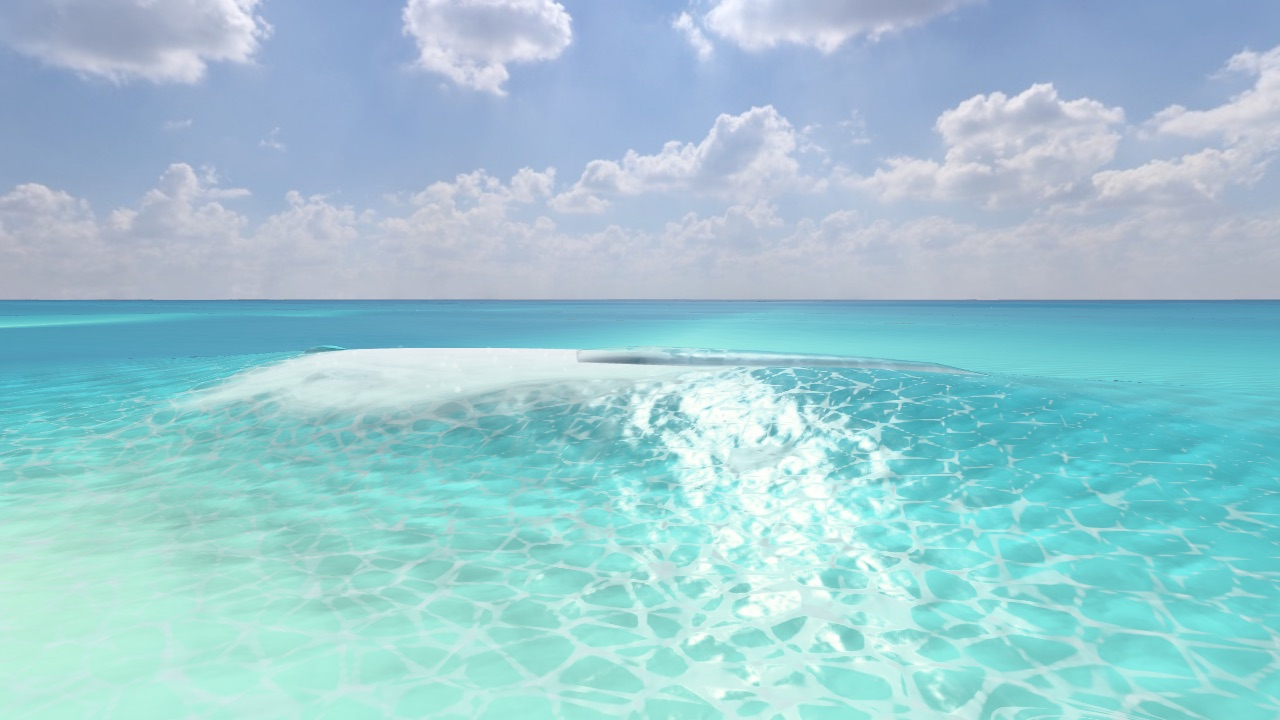
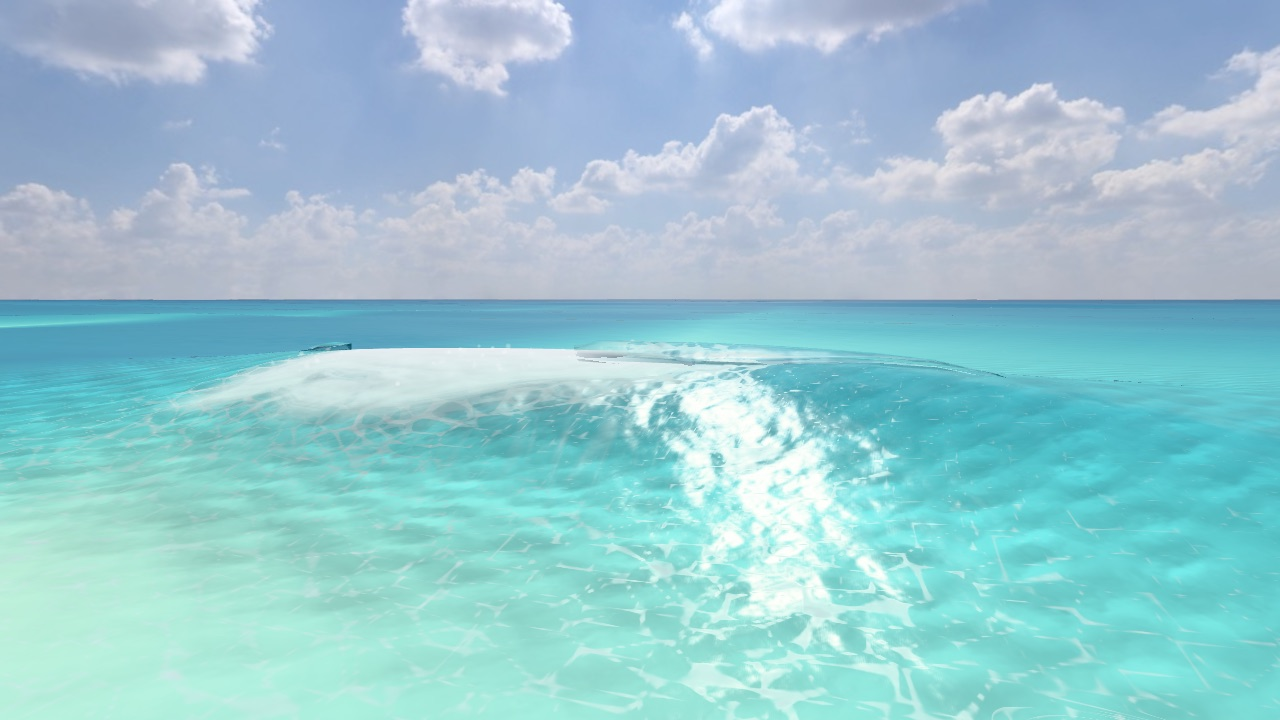
docs: the spilling lip's round 2: stills, motion strips, sources, open checks
New after stills (Medium beside, lineup, beach, Classic; Big beside and
lineup), 8-frame motion strips at Medium and Big from a fixed camera beside the
take-off, the round's numbers and sources (Surf's Up pp. 80-82, Vlachos 2010,
Mostert 2022, Watanabe 2005, Saruwatari 2008, Hansen & Svendsen 1984), costs,
and what is still off (glassy at rest; lace on the shoulder at Big). Consult-log
row for round 2.

diff --git a/docs/research/canyon-lip-2026-10-11/README.md b/docs/research/canyon-lip-2026-10-11/README.md
@@ -2,17 +2,17 @@
 
 The owner's playtest of 2026-10-11, at the Canyon: "I don't want the wave to become white then have the spilling; spilling should be like a tube animation but as a separator that the wave is breaking."
 
-What was built, on `claude/canyon-lip`:
+What was built, on `claude/canyon-lip` (three passes: the first build, the coordinator's look pass, and round 2 after the water-physics advisor's review):
 
-- **A small rolling lip.** At each wave's spilling front the top of the crest tips forward as a small curl and falls down the face. It runs along the crest at the S2 front's pace (the 55° peel), just behind the front's tip.
-- **A clean shoulder ahead of it.** No whitewater is drawn ahead of the front.
-- **White that trails the break.** No white is drawn on a column's face until its curl lands. The white then grows down the face from the landing line and reaches the face's foot 2 s later.
+- **A small rolling lip.** At each wave's spilling front the crest sharpens and its tip is thrown out and falls down the face. It runs along the crest at the S2 front's pace (the 55° peel), just behind the front's tip. Each column goes through the break's own sequence as the peel passes it.
+- **A clean shoulder ahead of it.** No whitewater is drawn ahead of the front. The drawn foam drifts shoreward and its lace lasts 6 s rather than 15 s, so the last waves' lace clears from the shoulder at Medium.
+- **White that trails the break.** No white is drawn on a column's face until its curl lands. A bright patch then shows where it lands, with a splash of drops. The white grows down the face and reaches the face's foot 2 s later.
 
-It is **look only**. The water, the solver's breaking strength, the S2 whitewater (which feeds the air and the roar), the breaking the rider feels, the roller table (`writeTable`: push, froth drag, water entry, lens top), and the aeration the rider floats in (`aerateBores` → `voidFraction`) are byte for byte the same with the lip on and off. A test checks this every step over 5 s of Canyon Medium. The curl collides with nothing. `heightAt` and the drawn heights are unchanged. Only the Canyon has the lip; every other spot draws exactly as before.
+It is **look only**. The water, the solver's breaking strength, the S2 whitewater (which feeds the air and the roar), the breaking the rider feels, the roller table (`writeTable`: push, froth drag, water entry, lens top), the aeration the rider floats in (`aerateBores` → `voidFraction`) and its turbulence, the bores the air reads, and the lip impacts (the sound and the reports) are byte for byte the same with the lip on and off. A test checks this every step over 5 s of Canyon Medium, the foam's drift and the curl's splash included. The curl collides with nothing. `heightAt` and the drawn heights are unchanged. Only the Canyon has the lip; every other spot draws exactly as before, in both looks.
 
 ## The stills
 
-Canyon, Medium swell (Hs 1.4 m, Tp 11 s, 0°, s = 150), seed 1, in the page, at sea time 133.47 s: a set wave about 2 m high peeling toward +x at the take-off. They were shot from the dev water sheet (`?inpage&waterSheet&spot=canyon&swell=medium&direction=0&spreading=150`, with `&spillingCurl=0` for the before), midday, in the Rich look unless noted. The before and after show the same wave at the same moment, from the same cameras: the switch changes nothing felt. The after stills are from the look pass after the coordinator's review (see below).
+Canyon, Medium swell (Hs 1.4 m, Tp 11 s, 0°, s = 150), seed 1, in the page, at sea time 133.47 s: a set wave about 2 m high peeling toward +x at the take-off. They were shot from the dev water sheet (`?inpage&waterSheet&spot=canyon&swell=medium&direction=0&spreading=150`, with `&spillingCurl=0` for the before), midday, in the Rich look unless noted. The before and after show the same wave at the same moment, from the same cameras, because the switch changes nothing felt. The after stills are round 2's.
 
 | | Before (`spillingCurl` off) | After |
 | --- | --- | --- |
@@ -21,77 +21,112 @@ Canyon, Medium swell (Hs 1.4 m, Tp 11 s, 0°, s = 150), seed 1, in the page, at 
 
 - **From the beach** (after): ![](after-beach.jpg)
 - **Beside the curl, Classic look** (after): ![](after-beside-classic.jpg)
-- **Big, beside the curl** (after; `&swell=big`, sea time 201.8 s, a 1.5 m wave): ![](after-big-beside.jpg)
+- **Big** (`&swell=big`, sea time 201.9 s; this wave is 1.5–1.6 m high, Big's sets reach 2.5 m), beside and from the lineup: ![](after-big-beside.jpg) ![](after-big-lineup.jpg)
 
-**My read of the stills.**
+**Motion strips.** 8 frames, 0.15 s apart, read left to right then down. Each is from a fixed camera beside the take-off column (x −30) as a curl passes:
 
-- **Before:** the face is white (S2's lace) right up to the front. There is no curl.
+- **Medium,** from about 10 m, sea time 132.87–133.92 s: ![](motion-medium.jpg)
+- **Big,** from 10 m, sea time 201.29–202.34 s: ![](motion-big.jpg)
+
+**My read.**
+
+- **Before:** the face is white (S2's foam) right up to the front. There is no curl.
 - **After, Medium:**
-  - **The ordering reads.** From the lineup and beside the curl you see, along the crest: a clean green shoulder, then a small water-coloured lip growing from nothing at the front, then a bright white patch at the crest behind it where it has landed. The white spreads down the face from there.
-  - **The lip.** It now takes the face's turquoise and is translucent where it falls thin. Its tip carries a little froth and the bright edge. It fades into the crest, and into the white as it collapses. There is no dark rim and no glass end cap.
-  - **What is still off:**
-    - The lip is smooth and clean-edged: from beside it still reads as a glassy tongue lying on the crest more than as water pouring off it.
-    - In Classic it is a darker teal, with its inner side showing through the thin part.
-    - From the beach it is subtle: a thin translucent lip on the crest beside the white patch.
+  - The ordering reads: a clean shoulder, then a small lip just behind the front, then a bright white patch at the crest where it has landed, with drops thrown up. The white spreads down the face. The lace that covered the face and shoulder in the earlier stills is gone.
+  - Beside it, the lip now reads as a translucent sheet arching off the crest and down the face. It is longer where it is older and short at the front, with lighter streaks across it and a darker band under it.
+  - The strip shows the sequence: the white patch spreading along the crest frame by frame, with the lip reaching out and down ahead of it.
+- **What is still off:**
+  - **Glassy.** The lip is still smooth and a little glassy, more a clear awning over the crest than water pouring. The streaks' downward motion can only be judged in motion, not in stills.
+  - **The tip.** The ragged tip is too small on screen to see at these distances.
+  - **From the beach.** The curl is subtle: a thin lip on the crest beside the white.
+  - **Classic.** It reads darker teal, with its inner side showing through.
 - **After, Big:**
-  - The curl is barely visible beside the white patch.
-  - The leftover lace from earlier waves' bores covers the water ahead, so the shoulder is not clean there. That lace predates this work and is not touched: the Canyon's residual foam lasts 15 s, and Big breaks over a wide area.
-  - The dark dashes in the Big still are in the water without the curl too, so they are not the curl's.
+  - The curl is small beside the white patch.
+  - A lace network still covers the face and shoulder ahead of the front. The drawn foam there is 0.05–0.15 (measured): lace from the inshore bores, carried seaward by the depth-averaged return flow. The shoreward drift and the 6 s lace did not clear it at Big; they did at Medium.
+  - The dark dashes in the Big stills are in the water without the curl too, so they are not the curl's.
 
 ## The numbers and their sources
 
 | What | Value | Source |
 | --- | --- | --- |
-| Touchdown after the front reaches a column | τ_i = 0.6 √H s (0.84–0.86 s for the 2 m wave in the stills) | The barrel clock (along-the-crest.md); advisor 0.35–0.7 s at Medium (inferred) |
+| Touchdown after the front reaches a column | τ_i = 0.6 √H s (0.84–0.86 s for the 2 m wave in the stills; 0.95 s at 2.5 m) | The barrel clock (along-the-crest.md); advisor 0.35–0.7 s at Medium (inferred) |
+| The tip's flight | Out at a steady pace to the landing at τ_i (0.2–0.3 C), falling as t² from a peak at most 0.1 H over the crest, sharpened over the first third | The advisor, round 2 (the jet leaves nearly level and falls ballistically; Mostert, Popinet & Deike 2022: laminar until touchdown) |
 | The void fills, the curl whitening from its tip | 0.5 s | along-the-crest.md (collapse from T to T + 0.5 s) |
 | The white's toe reaches the face's foot | 2 s after touchdown | The owner (2026-10-11); advisor's sourced 2–3.5 s (Svendsen 1984, 5–8 h_b) |
 | Overturn shape | Pick & Feddersen (2026) fits (`Overturn.ts`), ψ0 from each column's Mead & Black gradient at h_b | The advisor; provisional |
-| ψ0 range | Held to 1:50–1:30 at H0/h0 0.28: void 0.10–0.20 H², W/L 0.35–0.37, 47–50°, curl 0.23–0.33 H high, landing 0.42–0.60 H ahead | The advisor's span for the fan face. Downcoast the fan grows gentler (1:60–1:95), and the arm's end and the beach face are steeper (1:25), so the curl would leave the owner's "about ¼ H" there |
-| Lip thickness | A_J·H² / (L + W): about 0.06 H at 1:30 | "The jet's thickness comes from its area" (advisor: about 0.05 H) |
-| Along the crest (the stills' wave) | 0.17 s per metre (a 5.7 m/s front), curl standing over about 7 columns, landing line 1.2 m below the crest, the face's foot (the lens's toe) 7 m | Measured. Advisor: 0.175 s/m; 2–4 m of open curl, then about 3 m collapsing |
+| ψ0 range | Held to 1:50–1:30 at H0/h0 0.28: void 0.10–0.20 H², W/L 0.35–0.37, 47–50°, curl 0.23–0.33 H high (0.58–0.83 m at H 2.5 m) | The advisor's span for the fan face. Downcoast the fan grows gentler (1:60–1:95), and the arm's end and the beach face are steeper (1:25) |
+| Landing | 0.60 H ahead: Pick & Feddersen's far end (1.5 m at H 2.5 m) | The coordinator's ruling, round 2 (the contrast route) |
+| Lip thickness | A_J·H² / (L + W), no less than 0.052 H: 0.13–0.15 m at H 2.5 m | Advisor: about 0.05 H; 0.13–0.15 m at Big |
+| The splash | At touchdown, per column: 0.3 of the jet (`SPLASH_UP.share`), on at the breaker celerity, down at 3.2 m/s | The advisor, round 2 (about 1.0 C forward, 2.5–4 m/s down) |
+| Surface drift of the drawn foam | Q_s = 0.18 H_b² m²/s over the still depth, at most 0.4 m/s, where the still depth is under 1.3 h_b (Q_s 1.3 m²/s at Big) | Hansen & Svendsen 1984; the advisor's Q_s ≈ 1.2–1.5 m²/s at Big and 0.3–0.4 m/s |
+| Drawn lace | 6 s (the Canyon's was 15 s) | The coordinator's ruling, round 2 |
+| Streaks | Two flow-map layers half a 0.45 s period apart; scrolled along the lip at 0.4 m/s near the crest to 3.2 m/s at the tip; 0.3 m apart in world x, 1.2 m long | Surf's Up course notes p. 80; Vlachos 2010; the advisor (2–4 lip thicknesses apart, 4:1) |
+| Ragged tip | Fingers cut from the tip's last fifth, 0.45 m period in world x; the tip's froth varied with the same noise | Surf's Up's lip trains; the advisor (0.3–0.6 m) |
+| Along the crest (the stills' wave) | 0.17 s per metre (a 5.7 m/s front), curl standing over about 7 columns, the face's foot (the lens's toe) 7 m | Measured. Advisor: 0.175 s/m; 2–4 m of open curl, then about 3 m collapsing |
 
-**How it is drawn** (the advisor's recommended build):
+**How it is drawn:**
 
 - **The curl** (`src/wave/SpillingCurl.ts`, `src/scene/SpillingCurlMesh.ts`):
-  - A ribbon is lofted along each wave's crest from the snapshot's slices: up to 56 slices of 13 floats, 2.9 KB, carried through the snapshot so solo, worker and online clients all draw it.
-  - Each slice is the curl at its column's age. It grows from nothing at the front to touchdown, then fills and whitens.
-  - The lip's outer surface rises from the back of the crest, carries forward over the void, and falls onto the drawn face where Pick & Feddersen's lip lands. The face stands in for the void's lower branch.
-  - It stands no more than 0.1 H over the drawn crest. The solver's crest is rounder and its face gentler than a breaking crest's, so a higher lip read as a pod sitting on the crest.
-  - It is shaded on the water's own uniforms, with the column of water under it as its body, so it takes the face's colour.
-  - Its falling outer half is shaded as the swept barrel's thin backlit sheet: translucent, letting 30 % of the water behind show through, brightest toward its tip.
-  - It carries a little froth on its very tip.
-  - Its view cosine is held off grazing, which removes the dark rim.
-  - Its Rich roughness is 0.25 rather than the water's 0.08, which removes the plastic sheen.
-  - It is blended (alpha). It fades into the crest where it attaches (from 0.4 L behind the crest to 0.1 L ahead of it). Over its 0.5 s collapse (about 3 m of crest) it thins, whitens and fades out into its landing patch, so no end cap shows.
+  - **The slices.** A ribbon is lofted along each wave's crest from the snapshot's slices: up to 56 slices of 13 floats, 2.9 KB, carried through the snapshot so solo, worker and online clients all draw it. Each slice carries its column's curl at full size and its age. The ribbon builds the column's stage of the break from that age, so the curl doesn't inflate as one shape.
+  - **The sequence per column:**
+    - the crest sharpens to a peak at most 0.1 H over the drawn crest;
+    - the tip goes out first, nearly level, and falls as t² onto the drawn face at the landing, 0.6 H ahead, at touchdown;
+    - the void under it opens in the last third of the flight;
+    - after touchdown the lip settles onto the face over 0.5 s, whitens from its tip, bulks into a white mass and fades out into its landing patch.
+  - **The contrast route.** The drawn face is gentler than an overturning one, so the void a real curl has, 0.15–0.2 H more, is drawn as contrast, not geometry. The lip's underside and a veil on the face under it are darkened for the sky the lip hides. That darkening is 45 % on the underside and 60 % on the face under it, at 75 % opacity, as the void opens.
+  - **Shading.** It is shaded on the water's own uniforms, with the face's column of water as its body, so it takes the face's colour. Its falling outer half is the swept barrel's thin backlit sheet: translucent, letting 30 % of the water behind show through, brightest toward its tip.
+  - **Streaks and tip.** Its falling half carries the streaks, and its tip the ragged fingers and froth, both fixed in world x. As the peel passes, they stay put while each column runs through its sequence.
+  - **Rim and sheen.** Its view cosine is held off grazing, which removes the dark rim. Its Rich roughness is 0.25, which removes the plastic sheen.
+  - **Fades.** It is blended: it fades into the crest where it attaches and out as it collapses, with no end cap. Classic draws it too, with Classic shading.
 - **The drawn white:**
-  - S2 now writes a drawn whitewater beside the felt one. It is zero before touchdown, then runs from the landing line (the void filling up to the crest) down to a toe that reaches the foot 2 s later. The foam field takes its foam and source from this drawn whitewater; its bore measurement for the air is unchanged.
-  - The roller band's drawn copy (`writeRoller`) waits and grows the same way. Once its curl has landed it is drawn at full scale within 0.15 s: a bright white patch where the lip lands (fresh foam averages about 41 % reflectance over its first second; the advisor), brightest at the crest and fading toward the toe. The felt lens's scale grows with its travel over about 2.5 s, which drew the landing faint.
-  - The drawn air (Rich's churn and plume) shows only under drawn foam, and only in columns whose curl is still young. A developed bore draws its air as before.
-  - S2's drawn whitewater also holds back the next crest's weak breaking before its onset joins it, which an older wave's band holds meanwhile. Before this change that breaking was drawn white ahead of the front.
+  - **S2's drawn whitewater.** S2 writes a drawn whitewater beside the felt one. It is zero before touchdown, then runs from the landing line (the void filling up to the crest) down to a toe that reaches the foot 2 s later. It also holds back the next crest's weak breaking before its onset joins it. The foam field takes its foam and source from this drawn whitewater; its bore measurement for the air is unchanged.
+  - **The band.** The roller band's drawn copy (`writeRoller`) waits and grows the same way. Once its curl has landed, it is drawn at full scale within 0.15 s: a bright white patch where the lip lands (fresh foam averages about 41 % reflectance over its first second; the advisor), brightest at the crest and fading toward the toe.
+  - **The drawn air.** Rich's churn and plume show only under drawn foam, and only in columns whose curl is still young. A developed bore draws its air as before.
+- **The splash.** Each touchdown pushes a `LipImpact` (kind 1, a splash-up) into `drawnImpacts`, which only the drawn spray reads. It never enters `lipImpacts`, so the water, the foam's air, the sound and the reports never see it. Classic throws no drops from a splash-up, the rule Classic's spray has kept since G9, so the splash shows in Rich only.
+- **The foam's drift.** The foam field takes the drift on top of the current for its own departure points only. The advection stencil it records, which the aeration reuses, stays the current's: a test checks the stencils are identical with and without the drift.
+- **The crest tracker** (Wave Lab Follow, `crestTracker.ts`) reads the drawn foam from the snapshot. With the lip, the breaking edge it slides to is the white's edge, a few metres behind the curl, rather than S2's early foam. Its tests pass unchanged.
 
-**Cost:**
+**Cost** (node timings on this M1 Air):
 
-- The look's step: 0.015 ms per step.
-- The snapshot's slices: 0.026 ms (worker).
-- Building the ribbon on the page: 0.082 ms for 20 slices, 0.225 ms at the 56-slice maximum, the same as before the look pass (0.084 and 0.224 ms). These are node timings on this M1 Air. The ribbon is rebuilt once per snapshot, not per frame.
-- The GPU draws one mesh of at most 1,400 vertices with the water's sheet shading. GPU cost was not measured; I estimate it as negligible.
+- The look's step and splash: about 0.01 ms per step.
+- The snapshot's slices: about 0.03 ms (worker).
+- The foam's drift: +0.2 ms per step on the foam stage (2.26–2.30 → 2.47–2.48 ms in the page's CPU run).
+- Building the ribbon on the page: 0.063 ms for 20 slices and 0.164 ms at the 56-slice maximum, cheaper than the look pass (0.082 and 0.225 ms) because each slice samples the face fewer times. The ribbon is rebuilt once per snapshot, not per frame.
+- The GPU draws one mesh of at most 1,152 vertices with the water's sheet shading, plus two value-noise layers for the streaks and one for the tip. GPU cost was not measured; I estimate it as small.
+
+## Sources
+
+- Pick & Feddersen 2026 (J. Fluid Mech. 1040 A8): the overturn's fits (`Overturn.ts`).
+- Mostert, Popinet & Deike 2022: breaking jets are laminar until they touch down.
+- Watanabe, Saeki & Hosking 2005: fingers and drops form on the splash.
+- Saruwatari et al. 2008: the splash-up and its jets.
+- Surf's Up, SIGGRAPH 2007 course notes, pp. 80–82: the falling face's texture shifted for downward motion; lip trains.
+- Vlachos 2010, "Water Flow in Portal 2": two-layer flow maps.
+- Hansen & Svendsen 1984: the breakers' shoreward surface mass flux.
+- Deike, Melville & Popinet 2015: surf-scale spillers overturn.
+- Svendsen 1984: the roller's development over 5–8 h_b.
+- Mead & Black 2001: the orthogonal gradient.
 
 ## What is provisional
 
 - **The shape.** Pick & Feddersen's potential-flow fits stand in for the Canyon's own break until the high-resolution Basilisk level-15 run.
-- **How the curl sits on the solver's face.** The solver's crest is rounder and its face gentler than a breaking crest's. A void W high over that face would stand the lip a third of the wave above the crest, which read as a pod. So the lip rises at most 0.1 H over the drawn crest (`RISE`), and its void is as high as the face's drop allows: about 0.1 H rather than Pick & Feddersen's 0.23–0.33 H. The 0.2–0.35 H test holds for the overturn's size W, not for the drawn void.
-- **The look's game values.** These are all provisional, set by eye on these stills:
-  - the light behind the lip (`SKY_BEHIND` 0.1, plus up to 0.5 more toward the tip);
-  - its translucency (`THIN_SHOWS` 0.3) and its fades (`ROOT_FADE`, `COLLAPSE_FADE`);
-  - its tip froth (0.3) and its Rich roughness (0.25);
-  - the landing flash (0.15 s).
-- **The curl's direction.** It is held within 30° of the shore's normal.
-- **The air rule.** The drawn air reaches full strength under foam 0.5 thick.
+- **The void.** The drawn void is as high as the gentle face allows under a lip at most 0.1 H over the crest, so it is drawn as darkness rather than its full 0.23–0.33 H. The 0.2–0.35 H test holds for the overturn's size W, not for the drawn void.
+- **The look's game values.** These were set by eye on these stills:
+  - the sharpening (0.1 H over the first third);
+  - the light behind the lip (`SKY_BEHIND` 0.1, up to 0.5 more toward the tip);
+  - its translucency (`THIN_SHOWS` 0.3) and its fades;
+  - the darkening (`UNDER_SHADE`, `FLOOR_SHADE`, `FLOOR_ALPHA`);
+  - the streaks and the ragged tip (`STREAKS`, `RAGGED`);
+  - its Rich roughness (0.25);
+  - the landing flash (0.15 s);
+  - the splash's share (0.3) and fall speed (3.2 m/s).
+- **The foam's drift and lace.** The drift's flux constant (0.18) and reach (1.3 h_b), and the 6 s lace.
+- **The curl's direction and the air rule.** The curl's direction is held within 30° of the shore's normal. The drawn air reaches full strength under foam 0.5 thick.
 
-## Open feel checks for the owner (no rider tests were run)
+## Open checks for the owner (no rider tests were run)
 
-- **Does the curl read as a separator?** It should be a small lip, clearly smaller than a tube, running just behind the front, with a clean shoulder ahead. Or does it still look like a glassy tongue on the crest? The knobs are in `SpillingCurlMesh.ts`: `RISE`, `SKY_BEHIND`/`SKY_AT_TIP`, `THIN_SHOWS`, `TIP_FROTH`, `BACK` and `OVER`. Streaks or a broken-up surface on the falling sheet are the next step if it still reads too clean.
-- **The residual lace** from earlier bores covers the shoulder at Big. Shortening the Canyon's residual (15 s) is look only, but it changes the whole spot's foam, so it needs the owner's call.
-- **The white's pace.** Is 2 s from touchdown to the face's foot right, and is the white bright enough where the curl lands?
-- **Sizes and light.** Small and Big swells (the ψ0 hold keeps the curl at 0.23–0.33 H of each wave), dawn and sunset light, and the GPU tier.
+- **Does it read as water spilling and rolling?** It should read as a small lip thrown off the crest just behind the front, a white landing behind it, and a clean shoulder ahead, rather than a glassy awning or a shape sliding along. The motion needs judging in motion: the streaks' fall and each column's sequence can't be read from stills.
+- **The shoulder at Big.** At Big, lace from the inshore bores still covers it. Next options, in order: a stronger drawn drift where the face steepens, then holding back the residual lace on the face of a wave about to break (both look only).
+- **The white's pace.** Is 2 s from touchdown to the face's foot right, and is the landing white bright enough?
+- **Classic, light and tiers.** Classic's darker teal lip, dawn and sunset light, Small, and the GPU tier.
 - **Nothing felt changed**, so the ride itself should feel exactly as before. Worth confirming on the board, since the white now arrives later than the push.

diff --git a/docs/research/water-physics/consult-log.md b/docs/research/water-physics/consult-log.md
@@ -4,6 +4,7 @@ What other sessions asked about wave shape, the advice they got and what came of
 
 | Date | Session | Question | Advice and outcome |
 | --- | --- | --- | --- |
+| 2026-10-11 | Canyon spilling lip, round 2 (look-pass review: glassy tongue, small at Big, lace on the shoulder) | What makes the falling lip read as moving; its size at Big; foam on the shoulder; its animation | Lips are laminar until touchdown (Mostert 2022); fingers and drops form on the splash (Watanabe 2005). Ranked: flow-scrolled streaks tied to world x (Surf's Up p. 80; Vlachos 2010), a ragged tip fixed in world x (Surf's Up lip trains), a splash at touchdown via LipImpact. Big: scale with H, apex ≤0.1 H; the missing 0.15–0.2 H is either a look-only face notch (owner: breaks "rider hits what's drawn") or contrast. Foam: faces converge it; nature clears it by shoreward surface drift (Hansen & Svendsen 1984; Q_s ≈ 1.2–1.5 m²/s at Big), which the depth-averaged foam lacks. Drawn drift 0.3–0.4 m/s kept out of the shared stencil, or residual 15 → 6 s. Animation: a ballistic tip instead of self-similar growth. Outcome: contrast route; drawn drift (+6 s residual if needed); Classic draws the curl (barrel/roller precedent). |
 | 2026-10-11 | Canyon spilling lip (owner playtest: white before spill) | Shape, aeration timing, along-crest separator, cheap build, why the face whitens first | Surf-scale spillers overturn (Deike 2015); P&F curl 0.10–0.20 H², 47–50°, lip ≈0.05 H; green until touchdown 0.35–0.7 s (inferred), toe over 5–8 h_b; separator = 2–4 m open curl; S2 ramp (35 % line, 5 m/s) and S3 band whiten the face in 0.2–0.3 s; ribbon from S2 age + Overturn.ts (provisional), Basilisk L15 for the decided path. Owner: look-only (push unchanged), provisional shape now, white to the foot ≈2 s after landing. |
 | 2026-10-09 | The Canyon at every size (canyon-big; docs/research/canyon-spilling-2026-10-05 §1) | Big (Hs 2.4 m at the 5 m edge, Tp 14 s) breaks on the level 3.6 m shelf: 46 % of its onsets there, 7 crests in 51 breaking 40–82 m of shore at once, some running toward −x. Which bed lets every size break on one oblique line and peel toward +x? Is a crest deepening seaward (the Wave Pool's ramp) the way? | Mead's platform limit (Mead 2000, Bingin): a platform caps the waves a spot can take. Big needs one at least 5.7 m deep (Froude similarity with Medium on 3.6 m: Hs/h about 0.41) and an edge about 7.9 m deep. A crest ramp either spreads Medium's starts with each wave's height or turns the contours back into an A-frame; a two-slope face (1:10 below 3.6 m) makes Big plunge (ξ about 1.0) and refracts Medium the same (Snell holds over a step); a deep planar face costs Medium 8–10° in a ray model. Advised a fan face: crest line 70°, the 2.8 m contour at 55–60°, 1:30 below. Outcome (3 seeds × 14 periods per size): built as advised (fan 15°, 6 m platform, 7.9 m edge, the sizes still given at 5 m depth), plus a trough behind the line (bores re-broke on the wide 1 m top). Big: 40 of 40 tracker samples toward +x at 31°, 43 of 49 starts within ±10 m, no close-out across the window (one 40 m fast section). Medium: 35 of 35 at 30°, starts on the arm 87 % (95 % before). A planar 70° face had 15 mid-arm starts in 54; the fans 4–6 |
 | 2026-10-06 | The Canyon's straight-crest bed (docs/research/canyon-spilling-2026-10-05 §1) | Square crests (0°, s = 150; Medium: Hs 1.4 m at the 5 m edge, Tp 11 s) meet one oblique arm. Once its peak breaks, the onsets run along a 45° diagonal both ways, onto the level shelf ahead of the arm and upcoast of the peak; the peel tracker reads 31–35°. Crest steepness on the shelf, η_t/√(gh): 0.14–0.37 for H ≥ 1 m on 2.8 m, 0.15–0.23 for H ≥ 1.5 m on 4 m; crests at about 6.3 m/s. Is the spread physical? Which bed gives a bed-controlled 45–60°? Is √(g h_b) the right celerity? | (a) Not physical. Rule A's diagonal parents (src/wave/breakingAge.ts) hand Kennedy's aged threshold, 0.15√(gh), along the crest at the crest's own speed, into crest only 0.15–0.35√(gh) steep; the tracker then reads asin(4.65/(√2·c)), 31° at 6.3 m/s. In nature each part of a crest breaks at its own threshold: Dally 1990 (the break point moves along the contour), Goda 1992 (sideways spread 0.30 C_b on average, 0–C_b), Surf Ranch 0.48 C (Feddersen et al. 2023). No paper names the artefact (inferred from the code); Celeris uses the same stencil, FUNWAVE-TVD restarts the inheriting cell's age. Inferred fix: take the age only from the parent nearest the up-ray (−∇η), or a 0.35√(gh) threshold to join through the diagonals; it revisits rule A (PR #76) at every spot, so it is the owner's call (check with padangFuse.probe.test.ts). (b) No bed reaches 50–60° on today's tracker: the break point is never slower than a straight crest, so sin α = (4.65/c_s)·sin φ tops out at 47.6° (c_s 6.3 m/s), and 45° needs φ ≥ 73.5° with crests beside the break under 0.15√(gh), about 5 m of water. Measure the arm only (`canyonArmAt`), as the Reef, Padang Padang and the Pool do. (c) Hutt's α is geometric, with the crest's own speed (Walker & Palmer via Scarfe et al. 2009; Dally 1990): √(g h_b) reads 12–20° low at 45–60°; the owner's crest-speed meter (2026-09-29) is unbuilt. At c_b = √(2gH_b) = 5.8 m/s an arm at 60–66° reads 53–57° and the fuse 41° (the advisor’s table, H_b 1.72 m, c_s 6.3 m/s). **Outcome:** the session kept straight crests and the arm (3.6 m shelf, 62°), resolved the shoaling (1 m cells from the zone), and reported the peel bar unmet on today's tracker, with the rule A fix and the meter as the owner's choices. |
